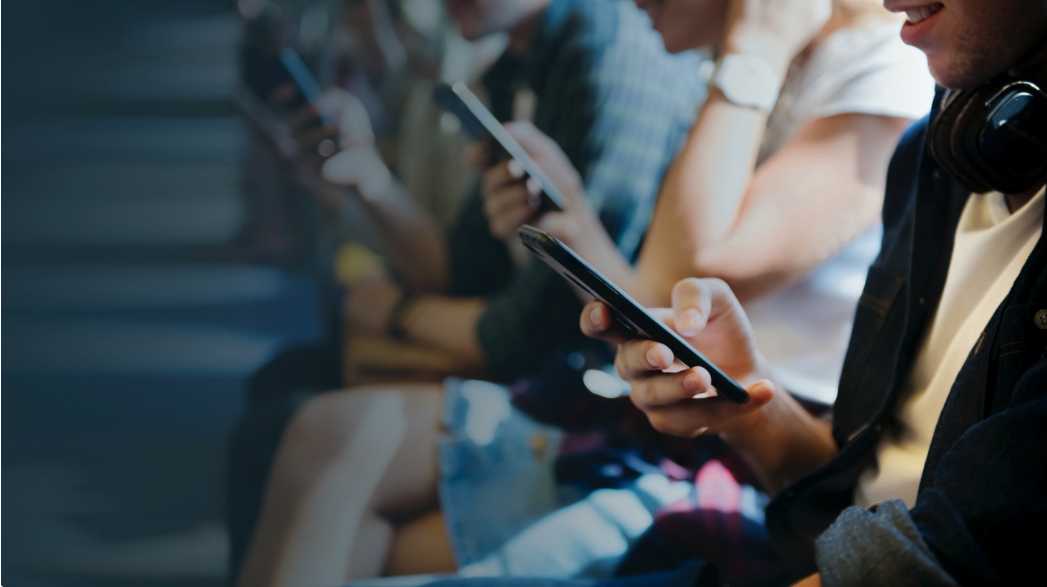
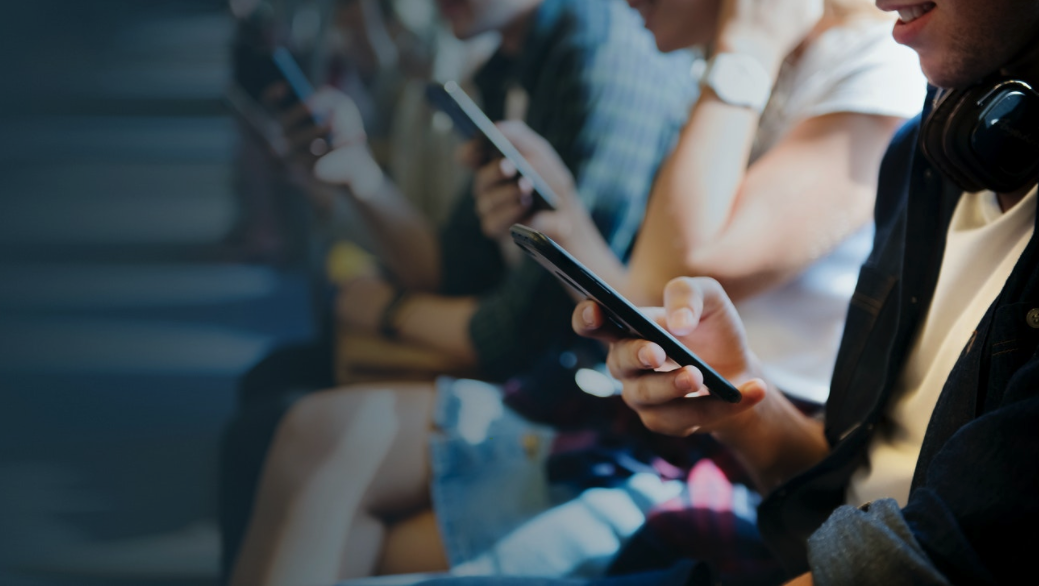
add: hero

diff --git a/src/screens/staking/components/staking_cover/styles.tsx b/src/screens/staking/components/staking_cover/styles.tsx
@@ -1,2 +1,47 @@
 import styled from "styled-components";
+import { CoverCSS } from "@styles/components";
+import { theme, media } from "@styles";
+const { headerMargin } = theme;
 
+export const StakingCoverCSS = styled(CoverCSS)`
+  background-image: linear-gradient(
+      0deg,
+      rgba(0, 0, 0, 0.68),
+      rgba(0, 0, 0, 0.68)
+    ),
+    url("forbole_background/staking.png");
+  background-position: 55% bottom;
+
+  h2 {
+    color: white;
+    margin: 3rem 0 ${headerMargin.small};
+    font-weight: 400;
+  }
+
+  p {
+    color: white;
+    margin-bottom: 2rem;
+  }
+
+  .social-media-container {
+    margin-bottom: 0.5rem;
+    a {
+      margin-right: 0.5rem;
+
+      svg {
+        path {
+          fill: white;
+        }
+      }
+    }
+  }
+
+  ${media.tablet`
+    background-image: url("forbole_background/staking.png");
+  `}
+
+  ${media.bigDesktop`
+    height: 30vh;
+    background-position: 55% center;
+  `}
+`;

diff --git a/src/screens/staking/components/staking_cover/index.tsx b/src/screens/staking/components/staking_cover/index.tsx
@@ -1,10 +1,24 @@
 import React from "react";
+import { useTranslation } from "i18n";
+import { StakingCoverCSS } from "./styles";
+import { socialMedias } from "./config";
 
 const StakingCover = () => {
+  const { t } = useTranslation("staking");
   return (
-    <div>
-      dover
-    </div>
+    <StakingCoverCSS>
+      <div className="content-container">
+        <h2>{t("stakingYourTokens")}</h2>
+        <p>{t("stakingYourTokensDetails")}</p>
+        <div className="social-media-container">
+          {socialMedias.map((x, i) => (
+            <a href={x.url} key={i}>
+              {x.component}
+            </a>
+          ))}
+        </div>
+      </div>
+    </StakingCoverCSS>
   );
 };
 

diff --git a/src/screens/desmos/components/desmos_body/components/mobile/styles.tsx b/src/screens/desmos/components/desmos_body/components/mobile/styles.tsx
@@ -1,6 +1,6 @@
 import styled from "styled-components";
 import { media, theme } from "@styles";
-import { CoverCSS } from "@stylesComponents";
+import { CoverCSS } from "@styles/components";
 const { padding } = theme;
 
 export const MobileCSS = styled.div`
@@ -16,6 +16,7 @@ export const HeroCSS = styled(CoverCSS)`
       rgba(0, 0, 0, 0.68)
     ),
     url("forbole_background/desmos_hero.png");
+  background-position: left bottom;
 
   .visit-website {
     color: white;

diff --git a/src/styles/components/header_css.tsx b/src/styles/components/header_css.tsx
@@ -1,5 +1,5 @@
 import styled from "styled-components";
-import { theme, media } from "@styles";
+import { theme } from "@styles";
 
 const { padding } = theme;
 
@@ -7,7 +7,6 @@ const CoverCSS = styled.div`
   padding-left: ${padding.mobileHorizontal};
   height: 50vh;
   background-repeat: no-repeat;
-  background-position: left bottom;
   background-size: cover;
   display: flex;
   justify-content: space-between;

diff --git a/src/screens/staking/components/staking_cover/config.tsx b/src/screens/staking/components/staking_cover/config.tsx
@@ -1,0 +1,20 @@
+import { Telegram, Medium, Twitter, Github } from "@icons";
+
+export const socialMedias = [
+  {
+    url: "#",
+    component: <Telegram />,
+  },
+  {
+    url: "#",
+    component: <Medium />,
+  },
+  {
+    url: "#",
+    component: <Twitter />,
+  },
+  {
+    url: "#",
+    component: <Github />,
+  },
+];

diff --git a/src/screens/staking/index.tsx b/src/screens/staking/index.tsx
@@ -2,6 +2,7 @@ import React from "react";
 import { useTranslation } from "i18n";
 import { Layout } from "@components";
 import { StakingCover } from "./components";
+
 const Staking = () => {
   const { t } = useTranslation("staking");
   return (

diff --git a/src/screens/desmos/components/desmos_body/components/desmos_header/styles.tsx b/src/screens/desmos/components/desmos_body/components/desmos_header/styles.tsx
@@ -6,7 +6,7 @@ export const ContentHeaderCSS = styled.div`
   h2 {
     color: white;
     margin-bottom: ${headerMargin.small};
-    font-weight: 500;
+    font-weight: 400;
   }
 
   p {
